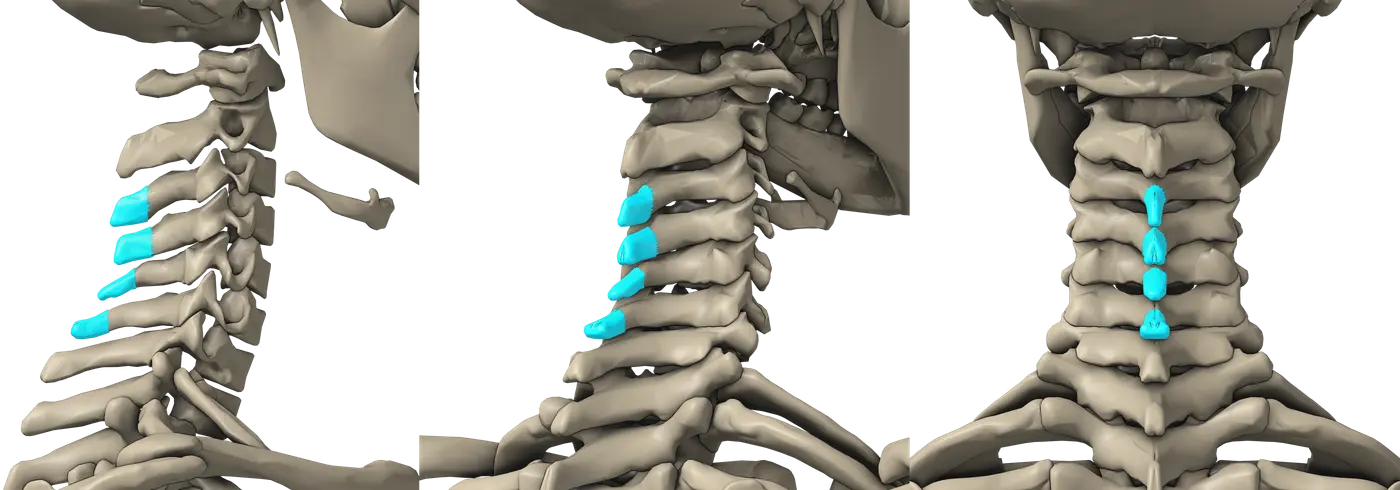
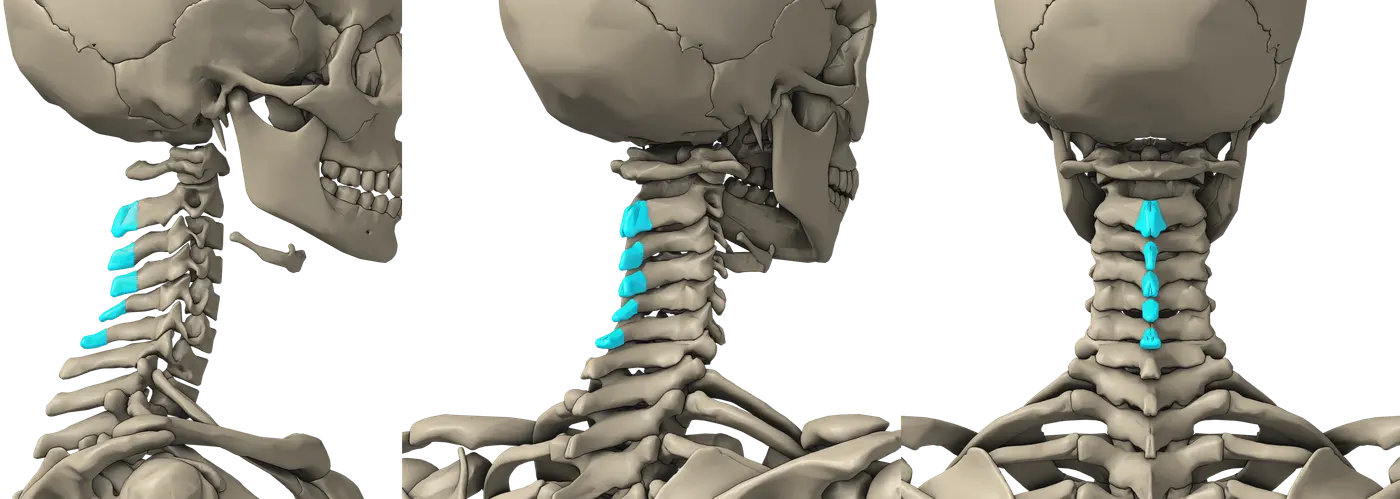
Mark C2's bifid spinous process too: the atlas names it 'Axis (C2)'

diff --git a/src/features/anatomy-revision/data/seed/panels.generated.ts b/src/features/anatomy-revision/data/seed/panels.generated.ts
@@ -26,7 +26,7 @@ export const MUSCLE_PANELS: MusclePanel[] = [
   { structureId: 'axis-c2', region: 'back-core', subregion: 'neck', layer: 'skeletal', width: 2700, height: 900 },
   { structureId: 'base-of-fifth-metatarsal', region: 'lower-leg-foot', subregion: 'ankle-foot', layer: 'landmark', width: 1081, height: 1386 },
   { structureId: 'base-of-first-metacarpal', region: 'forearm-hand', subregion: 'wrist-hand', layer: 'landmark', width: 1490, height: 1437 },
-  { structureId: 'bifid-spinous-process', region: 'back-core', subregion: 'neck', layer: 'landmark', width: 1400, height: 490 },
+  { structureId: 'bifid-spinous-process', region: 'back-core', subregion: 'neck', layer: 'landmark', width: 1400, height: 499 },
   { structureId: 'c7-spinous-process', region: 'back-core', subregion: 'neck', layer: 'landmark', width: 1400, height: 490 },
   { structureId: 'c7-vertebra', region: 'back-core', subregion: 'neck', layer: 'skeletal', width: 2575, height: 900 },
   { structureId: 'calcaneal-tuberosity', region: 'lower-leg-foot', subregion: 'ankle-foot', layer: 'landmark', width: 1081, height: 1386 },
